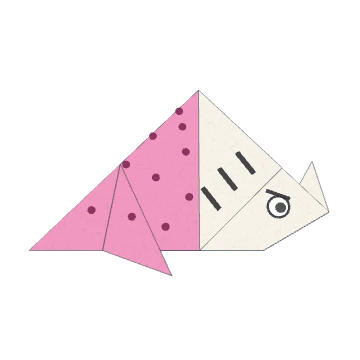
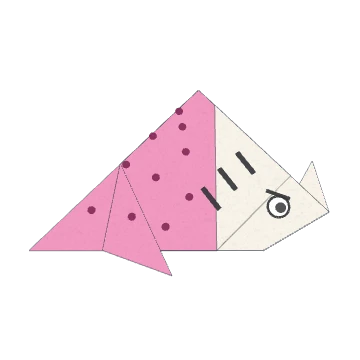
트리케라톱스: 3단계 모서리 접기를 가운데 점보다 조금 못 미치게 (색 일치 0.87 → 0.97)
- 전체 도안 검사에서 설명 없이 점수가 낮은 그림을 훑다가 발견: 트리케라톱스 4번~완성의
  색 일치가 모두 0.87 안팎. 비교 그림에 흰 사각형 경계를 따라 노란 세로 띠(앞뒤 색이
  다른 곳)가 계속 남아 있었다.
- 원인: 3단계 앞장 왼쪽 아래 모서리를 '가운데 점에 맞춰' 접었는데(흰 사각형 폭 0.5),
  도안은 조금 못 미치게 접어 흰 사각형 폭이 약 0.45. 접는 선 (-H,fc)–(fc,-H), fc=-0.05 (--fit -0.0528)
- 결과: 색 일치 4번 0.869→0.969, 5번 0.878→0.975, 6번 0.866→0.965, 7번 0.872→0.971,
  완성 0.881→0.982 (IoU 는 그대로)
- 3단계 한/영 문구 갱신, 썸네일 다시 만듦. 점무늬 꾸미기 inkcheck 통과

diff --git a/src/models/triceratops.js b/src/models/triceratops.js
@@ -10,9 +10,9 @@ const flip = { spin: { a: [0, 0, 0], b: [0, 1, 0], angle: 180 } };
 // 도안 그림에서 잰 값 (scripts/diagram.mjs --fit)
 //  hornA: 뿔 접는 선이 왼쪽 비탈(y=x)과 만나는 점의 x, hornB: 그 선이 밑변과 만나는 점의 x
 //  leg: 뒤집은 뒤 왼쪽 끝을 접는 선이 밑변과 만나는 x, legTilt: 그 선이 세로에서 기운 각도(도) — 도안 완성 그림처럼 다리 끝이 몸 아래로 조금 나온다
-export const triceratopsParams = { hornA: -0.385, hornB: -0.186, leg: -0.284, legTilt: 10 };
+export const triceratopsParams = { hornA: -0.385, hornB: -0.186, leg: -0.284, legTilt: 10, fc: -0.05 };
 export function makeTriceratops(P = triceratopsParams) {
-  const { hornA, hornB, leg, legTilt } = P;
+  const { hornA, hornB, leg, legTilt, fc = 0 } = P;
   return {
     id: 'triceratops',
     name: '트리케라톱스',
@@ -30,7 +30,7 @@ export function makeTriceratops(P = triceratopsParams) {
     steps: [
       { text: '색깔 면이 아래로 가게 놓고, 대각선으로 반 접었다 펴요.', moves: [{ line: [[-H, -H], [H, H]], side: [-H, H], unfold: true }] },
       { text: '다른 대각선으로 반 접어 세모를 만들어요.', moves: [{ line: [[-H, H], [H, -H]], side: [H, H], tag: 'half' }] },
-      { text: '앞장의 왼쪽 아래 모서리를 가운데 점에 맞춰 접어요.', moves: [{ line: [[-H, 0], [0, -H]], side: [-H, -H], filter: has('half'), tag: 'flap' }] },
+      { text: '앞장의 왼쪽 아래 모서리를 가운데 점보다 조금 못 미치게 접어요.', moves: [{ line: [[-H, fc], [fc, -H]], side: [-H, -H], filter: has('half'), tag: 'flap' }] },
       { text: '접은 선을 따라 왼쪽 위를 뒤로 접어요.', moves: [{ line: [[-1, -1], [1, 1]], side: [-H, H], toward: -1, tag: 'back' }] },
       { text: '왼쪽 끝을 비스듬한 점선에서 위로 접어 올려요. 뿔이 돼요.', moves: [{ line: [[hornA, hornA], [hornB, -H]], side: [-H, -H], tag: 'horn' }] },
       { text: '종이를 뒤집어요.', moves: [flip], view: [0, -0.25, 1] },

diff --git a/src/i18n/en.js b/src/i18n/en.js
@@ -520,7 +520,7 @@ export const enModels = {
     steps: [
       'Place the paper colored side down. Fold it in half along a diagonal and unfold.',
       'Fold it in half along the other diagonal to make a triangle.',
-      'Fold the lower-left corner of the front layer to the center point.',
+      'Fold the lower-left corner of the front layer up to just short of the center point.',
       'Fold the upper-left part behind along the crease.',
       'Fold the left tip up along the slanted dotted line. It becomes the horns.',
       'Turn the paper over.',
